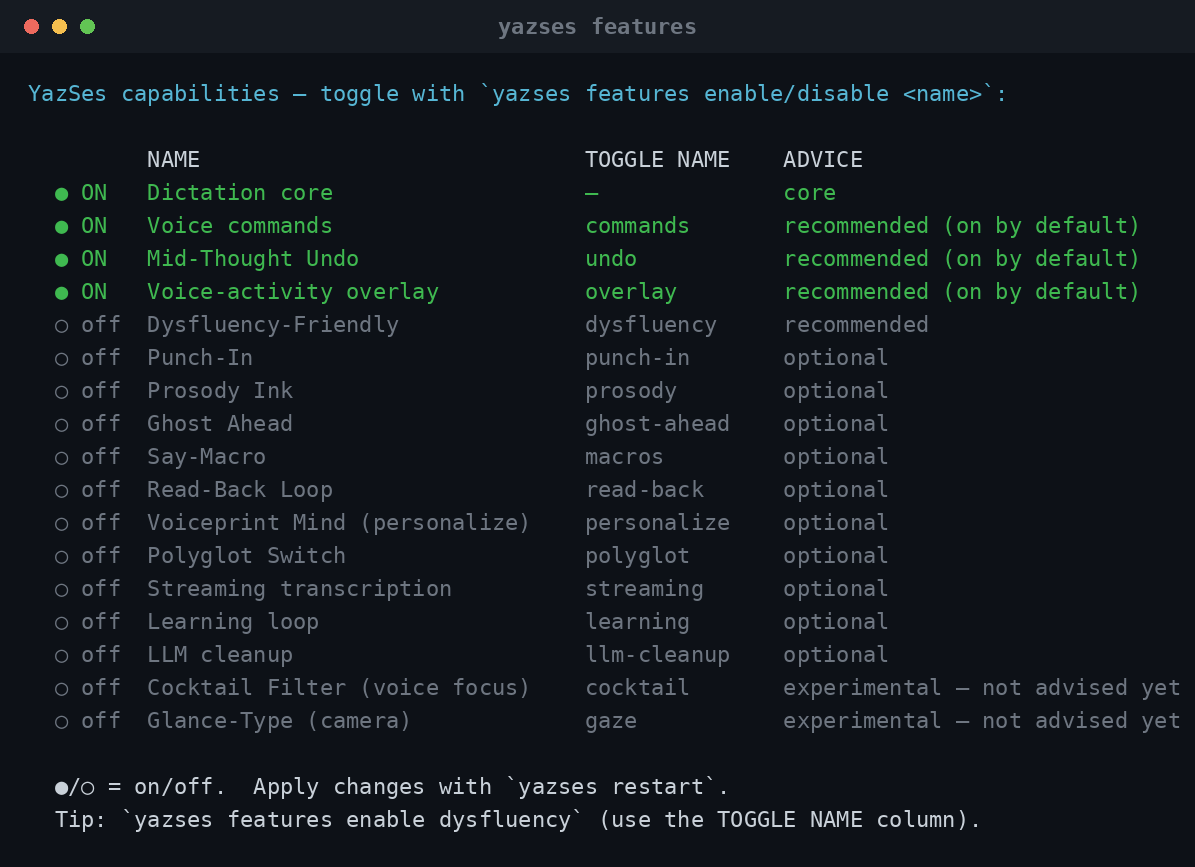
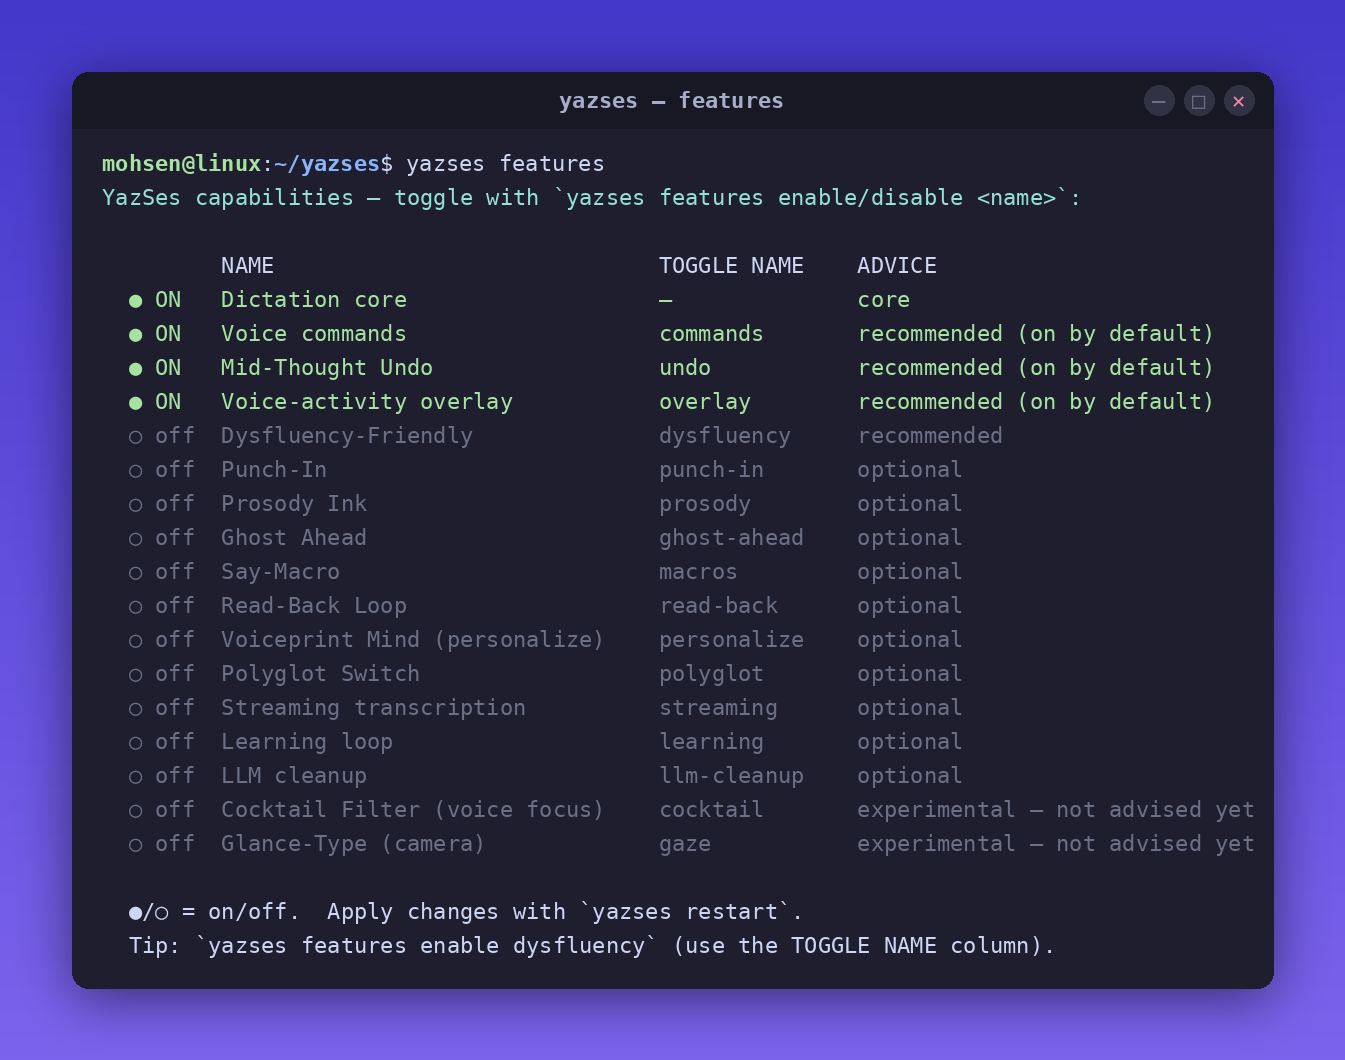
docs: fancy Linux-style terminal screenshots; embed doctor shot in README + Pages landing

diff --git a/README.md b/README.md
@@ -9,6 +9,8 @@
 
 YazSes is an open-source, offline voice-dictation daemon for Linux, macOS, and Windows. It transcribes your speech locally with [faster-whisper](https://github.com/SYSTRAN/faster-whisper) and types the result into whatever window has focus. Use it when you want hands-free dictation and editor/terminal voice commands without sending audio to Google, Apple, or Microsoft.
 
+![yazses doctor — all green, fully offline](docs/screenshots/yazses-doctor.png)
+
 ---
 
 ## Two versions of YazSes

diff --git a/docs/index.md b/docs/index.md
@@ -12,6 +12,8 @@ description: Hold a key, speak, release — your words are transcribed on-device
 [Get it on the Snap Store](https://snapcraft.io/yazses){: .btn }
 [Source on GitHub](https://github.com/novafabric/yazses){: .btn }
 
+![yazses doctor — all green, fully offline](screenshots/yazses-doctor.png)
+
 ## Install
 
 ```sh